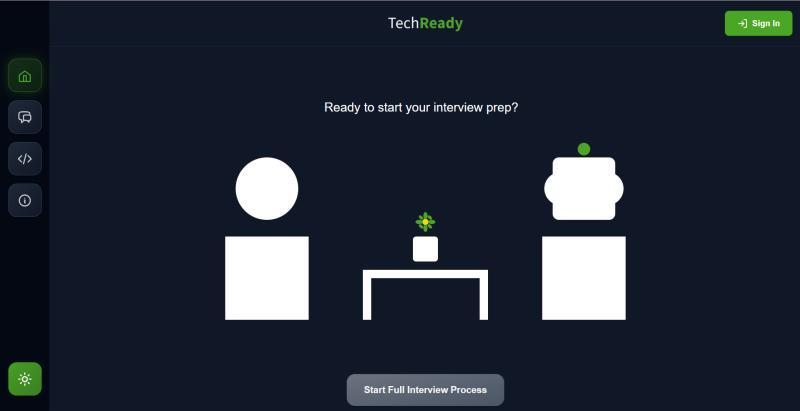
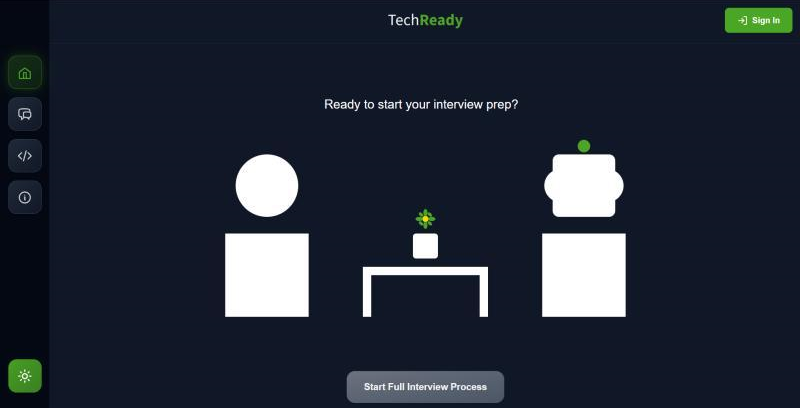
Updated the image display spacing

diff --git a/app/projects/page.tsx b/app/projects/page.tsx
@@ -22,15 +22,15 @@ export default function Projects() {
         {/* Projects */}
         <section className="mb-24">
           <div className="space-y-16">
-                        {/* Meteor Madness */}
+            {/* Meteor Madness */}
             <div className="group">
               <div className="bg-white dark:bg-zinc-800 border border-zinc-200 dark:border-zinc-700 rounded-2xl overflow-hidden hover:shadow-lg transition-shadow">
-                <div className="relative w-full aspect-video bg-zinc-100 dark:bg-zinc-900">
+                <div className="relative w-full aspect-video bg-zinc-100 dark:bg-zinc-900 p-4">
                   <Image
                     src="/Meteor_Madness.png"
                     alt="Meteor Madness - Asteroid Impact Simulator"
                     fill
-                    className="object-cover"
+                    className="object-contain p-4"
                   />
                 </div>
                 <div className="p-8">
@@ -58,12 +58,12 @@ export default function Projects() {
             {/* TechReady */}
             <div className="group">
               <div className="bg-white dark:bg-zinc-800 border border-zinc-200 dark:border-zinc-700 rounded-2xl overflow-hidden hover:shadow-lg transition-shadow">
-                <div className="relative w-full aspect-video bg-zinc-100 dark:bg-zinc-900">
+                <div className="relative w-full aspect-video bg-zinc-100 dark:bg-zinc-900 p-4">
                   <Image
                     src="/Tech_Ready.png"
                     alt="TechReady - Job Interview Simulator"
                     fill
-                    className="object-cover"
+                    className="object-contain p-4"
                     priority
                   />
                 </div>
